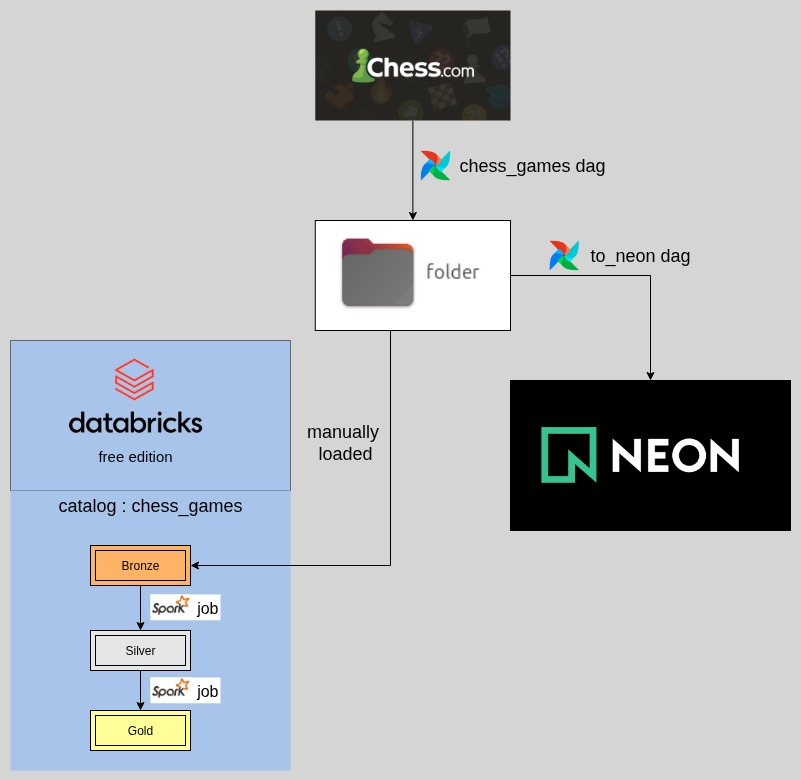
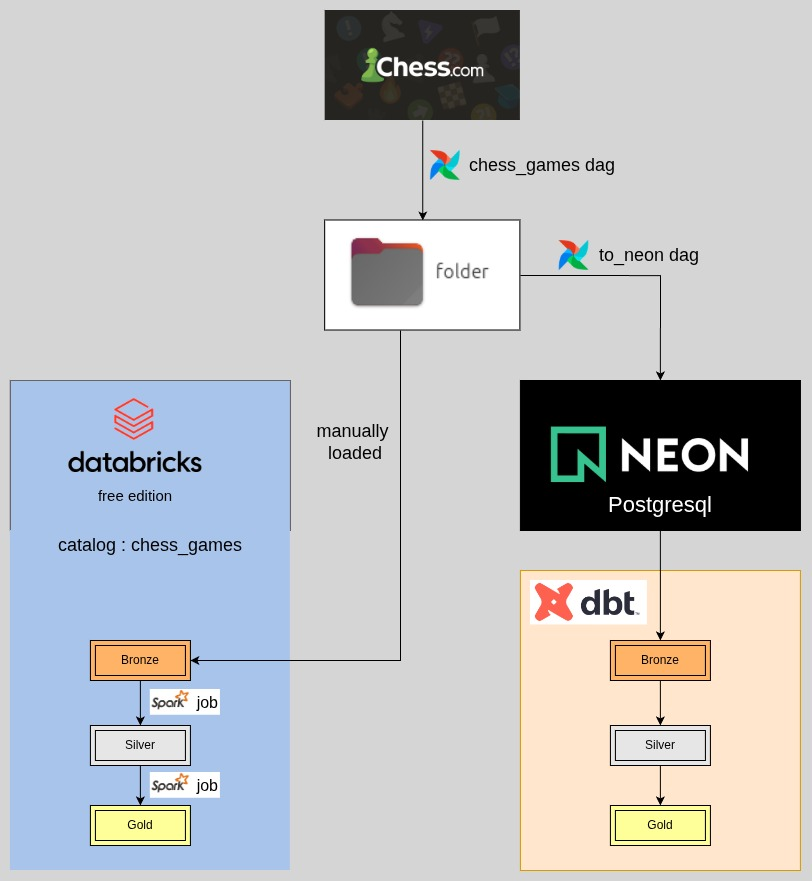
dbt

Changed region(s): [[0.0, 0.0, 0.9988, 1.0], [0.6866, 0.2769, 0.8739, 0.3692]]

diff --git a/dbt/models/dbt_README.md b/dbt/models/dbt_README.md
@@ -1,0 +1,26 @@
+# dbt
+
+## .env
+Enable the experimental PostgreSQL adapter for Neon DB:
+```env
+DBT_ALLOW_EXPERIMENTAL_ADAPTERS=true
+```
+
+## models
+Raw data is stored in Neon DB as a JSON file containing all games per month.
+
+### Bronze :
+
+bronze_flat_raw : Flattens the JSON structure to extract raw data.
+
+bronze_pgn : Parses the complex string where all data is stored as a space-separated list.
+
+### Silver :
+Joins the Bronze tables on the unique identifier (uuid).
+
+### Golds :
+**gold_accuracy** : Analyzes the correlation between ELO rating, move precision, and time taken.  
+**gold_elo** : Evaluates game results (win, draw, loss) based on the opponent's ELO.  
+**gold_opening_group** : Assesses results based on the openings played.  
+**gold_result** : Summarizes overall performance by color played (white/black).  
+**gold_timed_result** : Tracks the evolution of results over time.  
